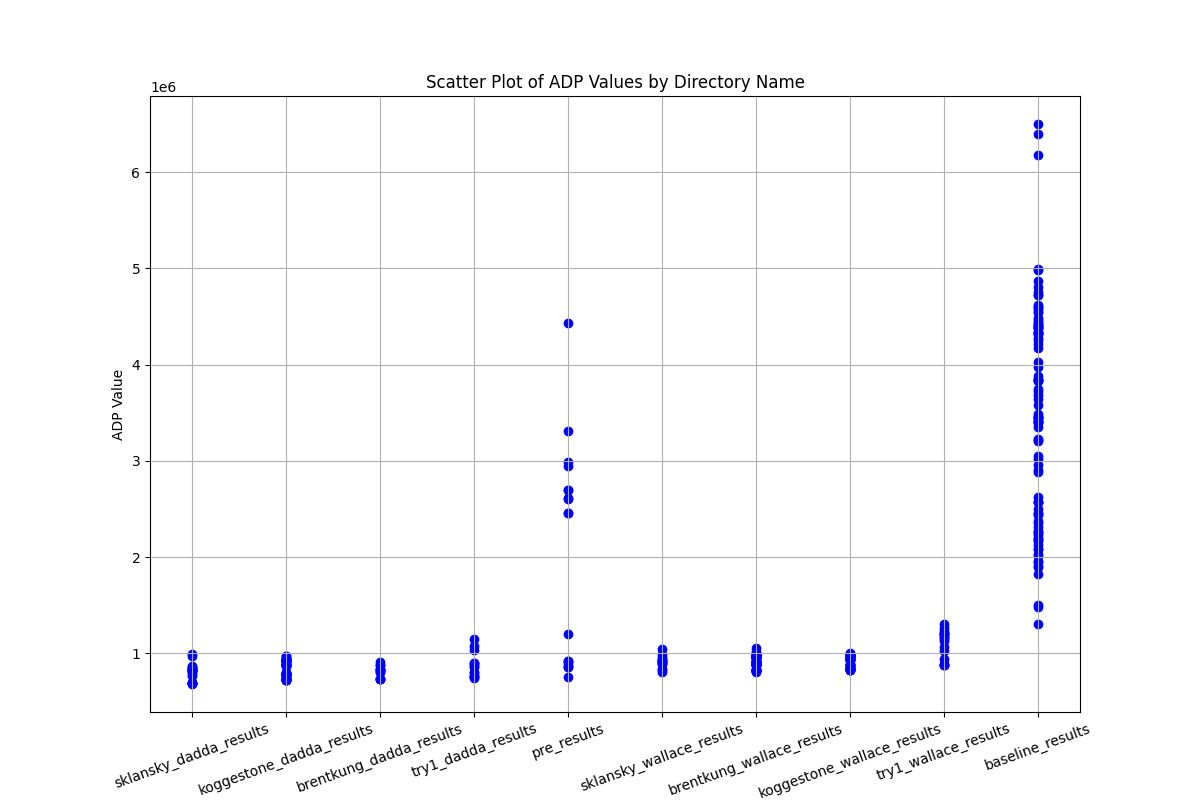
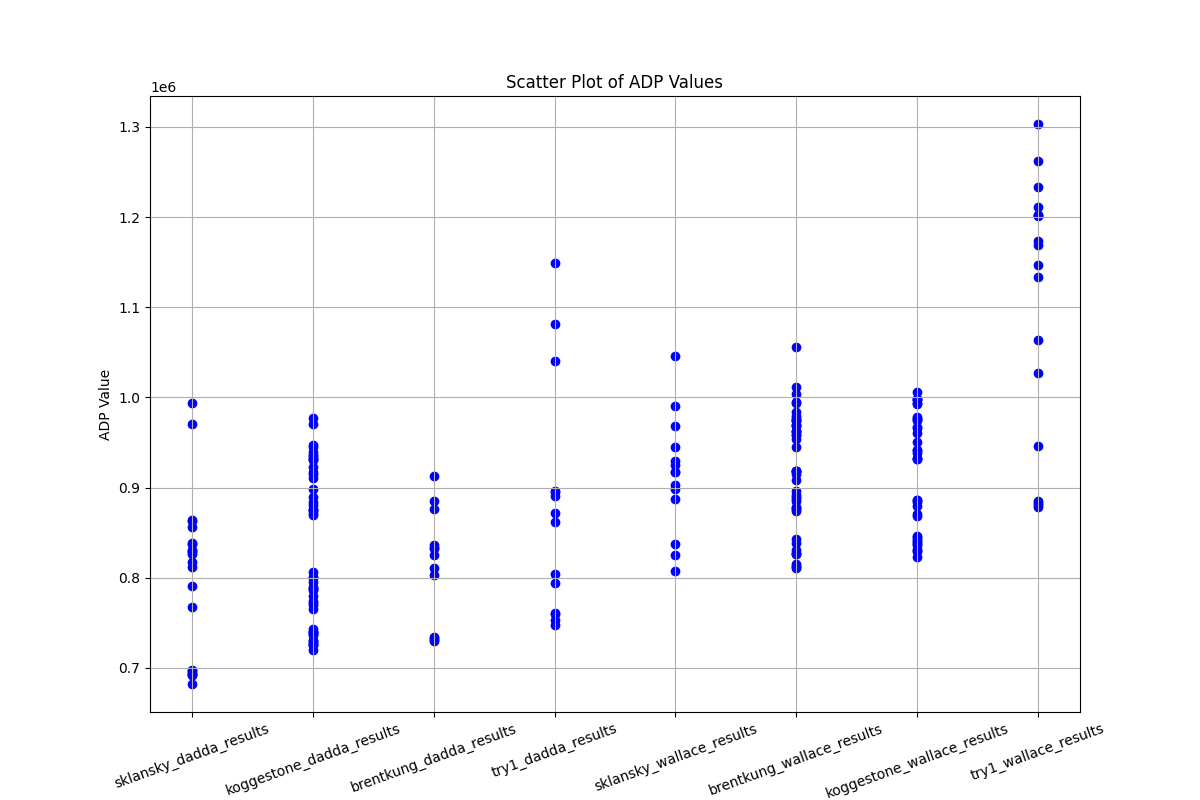
6th with README update

diff --git a/folder_process.py b/folder_process.py
@@ -68,6 +68,9 @@ def folder_delete(result_path):
 
     print(f"Found {count} folders here.")
 
+def check_condition(entry):
+    return entry[2] != "pre_results" and entry[2] != "baseline_results"
+
 def folder_eval(folder_path):
     adp_list = []
     with open(os.path.join(folder_path, 'invalid_summary.txt'), 'w') as invalid_summary_file:
@@ -137,15 +140,15 @@ def merge_invalid_summaries(root_folder):
     
     #Plot Scatter
     # 提取数据
-    directory_names = [entry[2] for entry in adp_entries]
-    adp_values = [entry[0] for entry in adp_entries]
+    directory_names = [entry[2] for entry in adp_entries if check_condition(entry)]
+    adp_values = [entry[0] for entry in adp_entries if check_condition(entry)]
 
     # 绘制散点图
     plt.figure(figsize=(12, 8))
     plt.scatter(directory_names, adp_values, color='blue')
     plt.xlabel('Directory Name')
     plt.ylabel('ADP Value')
-    plt.title('Scatter Plot of ADP Values by Directory Name')
+    plt.title('Scatter Plot of ADP Values')
     plt.xticks(rotation=20)  # 使横坐标标签斜着显示，以免重叠
     plt.grid(True)
     # 保存图片

diff --git a/baseline_results/plot.py b/baseline_results/plot.py
@@ -38,12 +38,12 @@ for folder in folders:
 plt.figure(figsize=(10, 6))
 for i in range(len(delays)):
     if drvs[i] == 0:
-        plt.scatter(delays[i], areas[i], color='red', label='drv = 0')
+        plt.scatter(delays[i], areas[i], color='blue', label='drv = 0')
     else:
-        plt.scatter(delays[i], areas[i], color='blue', label='drv != 0')
-plt.xlabel('Delays')
-plt.ylabel('Areas')
-plt.title('Scatter Plot of Delays vs Areas')
+        plt.scatter(delays[i], areas[i], color='red', label='drv != 0')
+plt.xlabel('Delay')
+plt.ylabel('Area')
+plt.title('Scatter Plot for Baseline Results')
 plt.grid(True)
-plt.savefig('scatter_plot.png')
+plt.savefig('baseline_scatter_plot.png')
 plt.show()

diff --git a/README.md b/README.md
@@ -1,49 +1,153 @@
 # EDA Lab3 实验报告
 
-## run log
+> <center>李诗阳  陈维灿  秦雄昊</center>
 
-~~~bash
-Dir: 001 with ADP: 4429775.547648 // random
-Dir: 002 with ADP: 3312383.1552 // random
-Dir: 003 with ADP: 2695614.9325056 // sklansky + wallace + None Seed
-Dir: 004 with ADP: 2695614.9325056 // sklansky + wallace + None Seed
-Dir: 005 with ADP: 2607057.8030592 // sklansky + dadda + None Seed
-Dir: 006 with ADP: 2989924.897536 // koggestone + wallace + None Seed
-Dir: 007 with ADP: 2463628.898304 // koggestone + dadda + None Seed
-Dir: 008 with ADP: 2944948.6089215996 // brentkung + wallace + None Seed
-Dir: 009 with ADP: 2614895.364096 // brentkung + dadda + None Seed
-Dir: 010 with ADP: 2456811.399168 // default try1 + dadda + None Seed
-Dir: 011 with ADP: 1203994.5463295998 // clk=0.5 uti=0.7
-~~~
+[toc]
 
 ## Baseline
 
-1. 全随机 允许违例
-2. 全随机 统计不为例的比例 不允许违例
+在实验开始前，我们首先运行了基于随机取值（包括cpa、ct、tool）的仿真，运行了100次，从而获取总体分布的信息。
 
-统计代码
+在100次运行中，有99次仿真成功并输出结果文件，1次仿真中途退出。仿真成功率为99%。
 
-1. try1 + dadda 对工具随机，允许违例、
-2. try1 + dadda 对工具随机，统计不为例的比例 不允许违例
+对于这99个仿真成功的case，我们分别对delay、area、drv、adp进行统计，结果如下表所示：
 
-统计代码，比较Try1的提升
+| Metric | Delay |  Area   | Drv  |   ADP   |
+| :----: | :---: | :-----: | :--: | :-----: |
+|  Min.  | 443.5 | 2687.4  |  0   | 1305833 |
+|  Max.  | 932.1 | 13925.8 | 146  | 6500544 |
+|  Avg.  | 678.0 | 5443.5  | 11.6 | 3475061 |
+
+统计其中不包含物理违例的case（drv = 0），得到27个，通过率为27.3%。
+
+对于这27个不包含物理违例的case，我们对adp进行统计，结果如下表所示：
+
+| Min. ADP | Max. ADP | Avg. ADP |
+| :------: | :------: | :------: |
+| 2032144  | 4988346  | 3441826  |
+
+对以上99个案例绘制Area-Delay散点图，其中红色代表存在物理违例，蓝色代表不存在物理违例：
+
+![baseline_scatter_plot](./baseline_results/baseline_scatter_plot.png)
+
+在后续评估中，我们对于允许违例的情况，将选择**3475601**作为ADP的Baseline；对于不允许违例的情况，将选择**3441826**作为ADP的Baseline。
+
+## CPA设计
+
+首先对cpa进行设计。
+
+考虑到对于在乘法器的输入中，两端的数据先抵达，中间的数据在一定延时后抵达。因此可以在Sklansky加法器的基础上进行变动：
+
+> 考虑16bit的加法器设计，
+>
+> 对于[7:0]的数据，从0开始依次往后计算；
+>
+> 对于[15:8]的数据，从15开始依次往前计算。
+
+在这样的设计下，中间的数据需要用到的时间被延后，从而填补了时间的间隙，有利于pipeline的进行，从而降低延时。
+
+具体代码实现如下：
+
+~~~python
+def get_Try1_adder(input_bit: int) -> PPAdderConfig:
+    node_mat = np.zeros((input_bit, input_bit))
+    for m in range(input_bit):
+        node_mat[m, m] = 1
+        node_mat[m, 0] = 1
+    for m in range(input_bit // 2, input_bit):
+        for n in range(input_bit // 2, m):
+            node_mat[m, n] = 1
+    return PPAdderConfig(input_bit, required_mat=node_mat)
+~~~
+
+## 手动调节优化
+
+在得到cpa的设计后，我们尝试去检验Try1的优势，因此，在None Seed的情况下，执行了cpa和ct的不同组合，结果如下：
+
+| cpa/ct set |  Sklansky   | Koggestone | Brentkung |
+| :--------: | :---------: | :--------: | :-------: |
+|  Wallace   |   2695615   |  2989925   |  2944949  |
+|   Dadda    | **2607058** |  2463629   |  2614895  |
+
+对比发现，Dadda是比Wallace更优的ct设计。
+
+因此，我们组合Dadda和Try1进行仿真，在None Seed情况下得到了`ADP=2456811.399168`，这是目前在工具None Seed情况下的最优解。
+
+进一步，我们调整工具的参数，首先将`place_utilization`项从0.5调整至0.7，打开随机Seed，搜索10次仿真后得到了违例情况下`ADP=1203994.5463295998`，发现，这已经小于Baseline中的Min. ADP(1305833)。
+
+更进一步，我们将`place_utilization`项从0.7调整至0.9，搜索20次仿真后，得到了违例情况下的`ADP=910561.6166`以及无违例情况下的`ADP=919237.6627`。
+
+而当`place_utilization`项从0.9调整至0.98后，我们依然得到了无违例情况，当前最优解为`ADP=876462.3616`。
+
+随后，我们还调整了`clk`,从0.5降到0.2后，搜索20次，没有得到无违例的case，但得到了违例情况下当前的最优解：`ADP=755185.8231`
+
+对比Baseline，在此轮手动调节优化后，我们得到了显著的提升：
+
+> 允许违例：
+>
+> Base:   ADP=3475601
+>
+> Opt:   ADP=755185	**(21.7%Base  shows  4.60X reduction)**
+>
+> 不允许违例：
+>
+> Base:   ADP=3441826
+>
+> Opt:   ADP=876462	**(25.5%Base  shows  3.92X reduction)**
+
+下附在手动调节优化过程中，我们最终得到的18组结果：
+
+~~~bash
+Dir: 001 with ADP: 4429775.547648 // All random 1
+Dir: 002 with ADP: 3312383.1552 // All random 2
+Dir: 003 with ADP: 2695614.9325056 // None Seed: sklansky_wallace
+Dir: 004 with ADP: 2695614.9325056 // None Seed: sklansk_wallace (Check)
+Dir: 005 with ADP: 2607057.8030592 // None Seed: sklansky_dadda
+Dir: 006 with ADP: 2989924.897536 // None Seed: koggestone_wallace
+Dir: 007 with ADP: 2463628.898304 // None Seed: koggestone_dadda
+Dir: 008 with ADP: 2944948.6089215996 // None Seed: brentkung_wallace
+Dir: 009 with ADP: 2614895.364096 // None Seed: brentkung_dadda
+Dir: 010 with ADP: 2456811.399168 // None Seed: try1_dadda
+Dir: 011 with ADP: 1203994.5463295998 // uti from 0.5 to 0.7
+Dir: 012 with ADP: 919237.6627 // uti from 0.7 to 0.9 (drv=0)
+Dir: 013 with ADP: 919237.6627 // same with 12 in another parameter set
+Dir: 014 with ADP: 910561.6166 // uti 0.9 optimal with drv
+Dir: 015 with ADP: 876462.3616 // uti from 0.9 to 0.98 (drv=0)
+Dir: 016 with ADP: 863414.7126 // clk from 0.5 to 0.2
+Dir: 017 with ADP: 863414.7126 // same with 16 in another parameter set
+Dir: 018 with ADP: 755185.8231 // clk 0.2 optimal with drv
+~~~
+
+## 对Tool进行搜索
+
+在手动调节过程中，我们发现核心影响的两个Tool参数`clk=0.2,uti=0.98`在这组配置下可以得到违例情况下的最优解。因此，本轮实验设定这一组参数，对其他参数进行随机搜索，遍历8种cpa和ct的组合，一共仿真通过223组结果，汇总如下图所示：
+
+![adp_scatter_plot](./adp_scatter_plot.png)
+
+从图中可以发现，dadda比wallace更容易得到较低的adp。
+
+最优的几个case来自于sklansky+dadda的组合。展示前10个adp的最优解如下：
+
+~~~bash
+ADP:      682161.8550    Source: sklansky_dadda_results    in  Dir: af146af0298a8c6ba8bc803c2ca40fff6b17b6f4b320dbef4b4dfdd835f07461        
+ADP:      692208.1567    Source: sklansky_dadda_results    in  Dir: 6c48a3e61f5db74398f2d265de9a32ad295be6536c0bff52d141790a087cac80        
+ADP:      692278.8187    Source: sklansky_dadda_results    in  Dir: e42190cd39bd75b962bc6f066e2d98288e0def7c0b3c9be0c99630c9d056dffa        
+ADP:      693442.3427    Source: sklansky_dadda_results    in  Dir: 694d09033ab243e39177c7d60804e3cf1b3c891d73c00cc23bb0448deaa29d7c        
+ADP:      693901.3755    Source: sklansky_dadda_results    in  Dir: dbe070d59b4026564a60b91b774675e879050e2ac7a6666058af428ff749ce83        
+ADP:      696466.7505    Source: sklansky_dadda_results    in  Dir: 785508a082a2827b38f43b76307bfd9a939c25119ef4d87c17e8a1443de79192        
+ADP:      697245.4785    Source: sklansky_dadda_results    in  Dir: e9f6d175779e8ed7fa92be675adb15104f46aee504eb1ac494e33f54a20d4afa        
+ADP:      720171.6770    Source: koggestone_dadda_results    in  Dir: cd0e867fdae1c2006a7c9ee006d70acf0a2c58e6a94ee5d465f56affe4f06e6d        
+ADP:      725507.9290    Source: koggestone_dadda_results    in  Dir: 8f92eeed4cb880cd0f0e839d00942049faa90d2d54882b6ac8fbb035adc8d0a5        
+ADP:      725507.9290    Source: koggestone_dadda_results    in  Dir: f7fef9d999d9c2f697ee9c64f993f1016506e5252796d8ca52aec0652349d780        
+~~~
+
+因此，对比Baseline，在此轮搜索优化后，我们在允许违例的情况下得到了显著的提升：
+
+> 允许违例：
+>
+> Base:   ADP=3475601
+>
+> Opt:   ADP=682162	**(19.6%Base  shows  5.10X reduction)**
 
 
 
-@qxh
-
-先手动调参：clk+eff 0.2*0.98
-
-其他参数的定性影响（半定量，影响大吗？）ADP是核心指标
-
-@cwc+lsy
-
-test 0.1 0-99
-
-run 0.2 0.98 for[Sklansky Koggestone Brentkung Try1] [Wallace Dadda] 
-
-
-
-Best Dir
-
-0.2 0.98 74.9w
